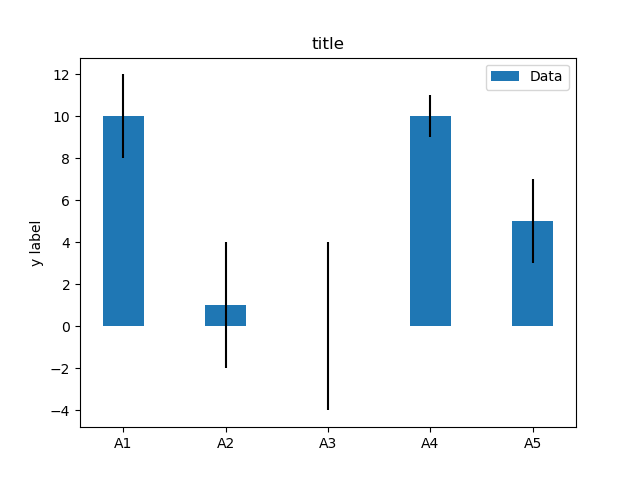
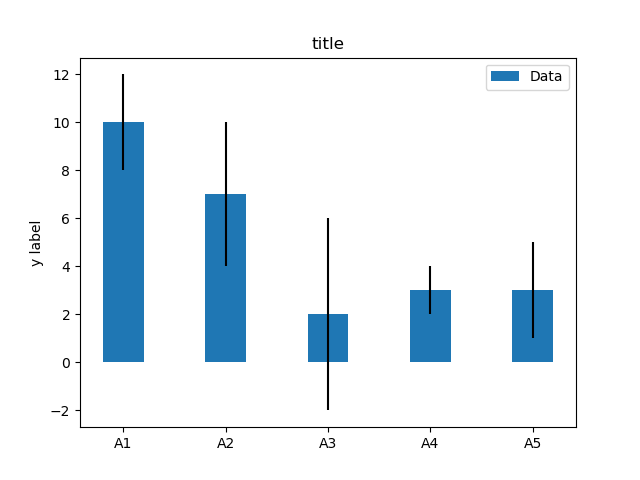
first commit

diff --git a/example.py b/example.py
@@ -1,16 +1,16 @@
 import numpy as np
 import matplotlib.pyplot as plt
 
-labels = ['G1', 'G2', 'G3', 'G4', 'G5']
-m_means = [4,8,9,1,4]
+labels = ['A1', 'A2', 'A3', 'A4', 'A5']
+m_means = [10,7,2,3,3]
 m_std = [2, 3, 4, 1, 2]
-width = 0.35       # the width of the bars
+width = 0.40       # the width of the bars
 
 fig, ax = plt.subplots()
 
 ax.bar(labels, m_means, width, yerr=m_std, label='Data')
-ax.set_ylabel('Scores')
-ax.set_title('Visual')
+ax.set_ylabel('y label')
+ax.set_title('title')
 ax.legend()
 #plt.show()
 plt.savefig('chart.png')

diff --git a/README.md b/README.md
@@ -1,7 +1,7 @@
-# Plot no 150 
+# Matplotlib no 1 
 
-matplotlib example
+python example
 
-https://pythonbasics.org
+https://pythonprogramminglanguage.com
 
 
